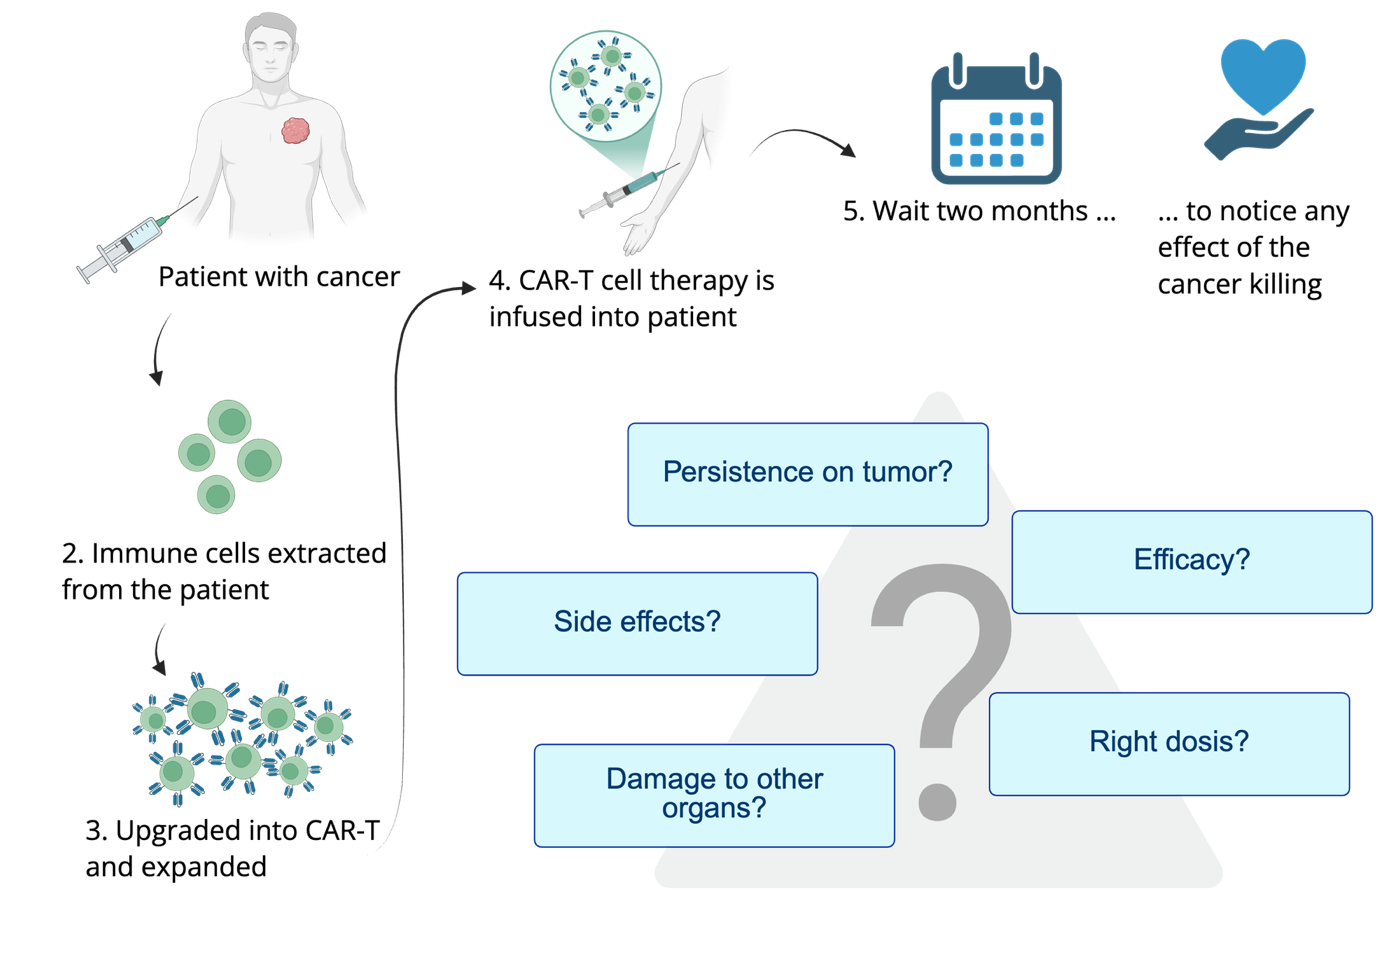
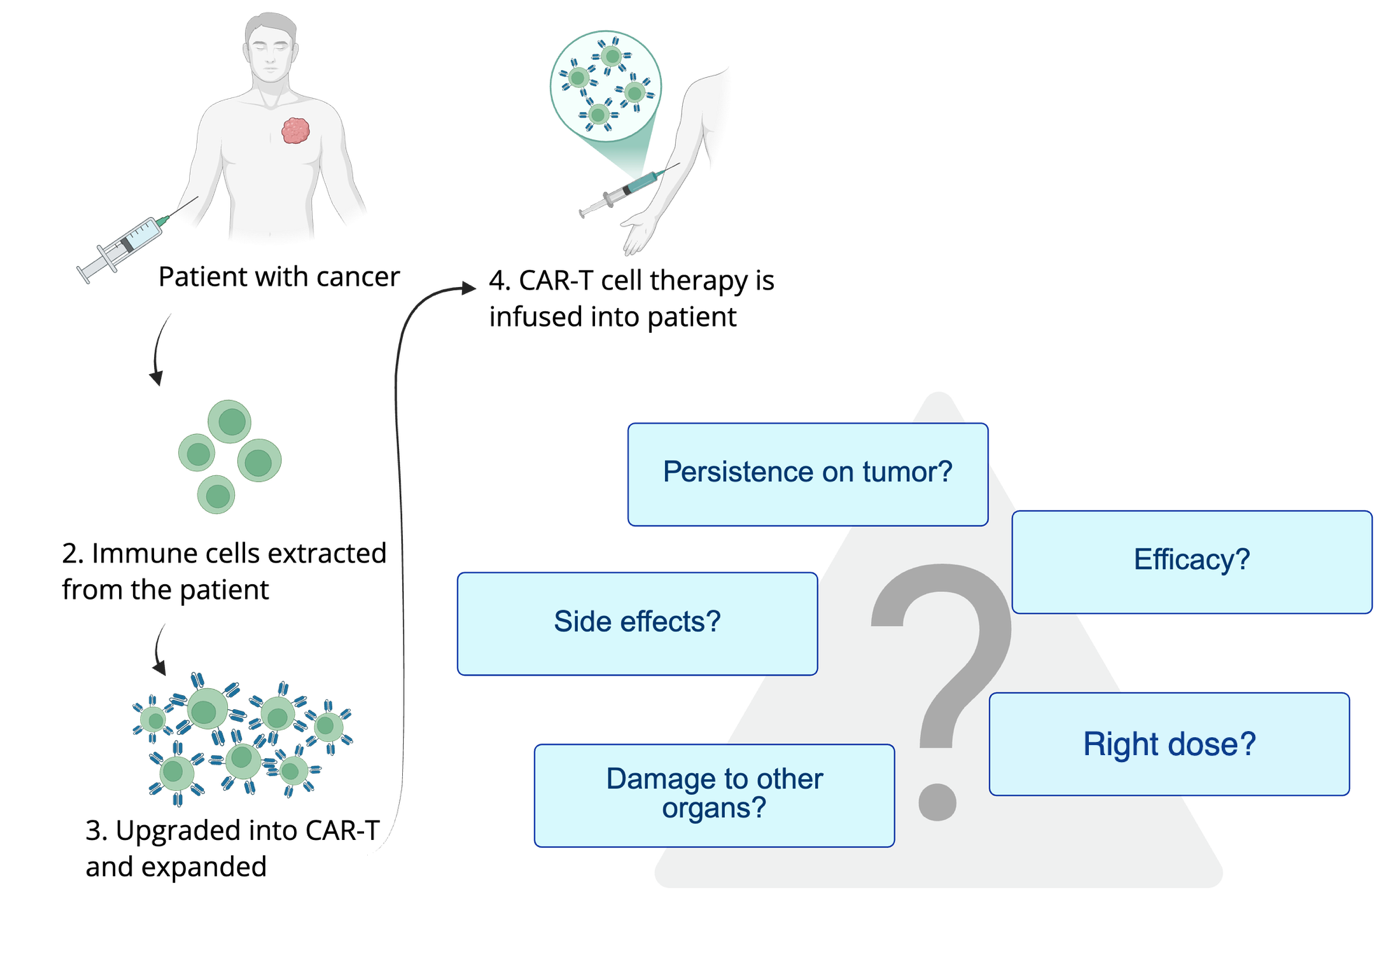
Hero tracer particles fly to reporters, concise tagline, need-section layout, personal contact, Gratama, Leiden area, schematic cleaned

diff --git a/index.html b/index.html
@@ -23,10 +23,10 @@
   <div>
     <p class="eyebrow">The imaging layer for living medicines</p>
     <h1>Making engineered cell therapies <em>visible</em> in the body.</h1>
-    <p class="lede">Radigene B.V. is a Dutch company developing a reporter gene and a radiolabelled tracer to image engineered cells with PET and SPECT.</p>
-    <a class="btn" href="technology.html">See how it works</a><a class="btn alt" href="contact.html">Get in touch</a>
+    <p class="lede">We tag engineered cells, so PET and SPECT scans can see them.</p>
+    <a class="btn" href="technology.html">See how it works</a><a class="btn alt" href="contact.html">Talk to us</a>
   </div>
-  <figure class="vizwrap"><svg class="viz" viewBox="0 0 440 380" role="img" aria-label="Illustration: engineered cells carry two kinds of receptor on their surface, a CAR and a reporter. A radiolabelled tracer binds the reporter and the cell lights up."><g class="cells"><circle cx="70" cy="70" r="26"/><circle cx="170" cy="48" r="20"/><circle cx="300" cy="80" r="28"/><circle cx="388" cy="150" r="22"/><circle cx="60" cy="210" r="22"/><circle cx="150" cy="300" r="28"/><circle cx="330" cy="310" r="24"/><circle cx="240" cy="360" r="14"/><g class="tag t1"><g transform="translate(235 170)"><circle class="body" r="32"/><g transform="rotate(-70) translate(0 -32)"><path class="car" d="M0 0V-13M0 -13L-6 -22M0 -13L6 -22"/></g><g transform="rotate(-20) translate(0 -32)"><path class="car" d="M0 0V-13M0 -13L-6 -22M0 -13L6 -22"/></g><g transform="rotate(40) translate(0 -32)"><path class="car" d="M0 0V-13M0 -13L-6 -22M0 -13L6 -22"/></g><g transform="rotate(140) translate(0 -32)"><path class="car" d="M0 0V-13M0 -13L-6 -22M0 -13L6 -22"/></g><g transform="rotate(205) translate(0 -32)"><path class="car" d="M0 0V-13M0 -13L-6 -22M0 -13L6 -22"/></g><g transform="rotate(265) translate(0 -32)"><path class="car" d="M0 0V-13M0 -13L-6 -22M0 -13L6 -22"/></g><g transform="rotate(10) translate(0 -32)"><path class="stem" d="M0 0V-11"/><circle class="rep" cx="0" cy="-15" r="4.5"/></g><g transform="rotate(95) translate(0 -32)"><path class="stem" d="M0 0V-11"/><circle class="rep" cx="0" cy="-15" r="4.5"/></g><g transform="rotate(160) translate(0 -32)"><path class="stem" d="M0 0V-11"/><circle class="rep" cx="0" cy="-15" r="4.5"/></g><g transform="rotate(-120) translate(0 -32)"><path class="stem" d="M0 0V-11"/><circle class="rep" cx="0" cy="-15" r="4.5"/></g></g></g><g class="tag t2"><g transform="translate(145 150)"><circle class="body" r="24"/><g transform="rotate(-60) translate(0 -24)"><path class="car" d="M0 0V-13M0 -13L-6 -22M0 -13L6 -22"/></g><g transform="rotate(20) translate(0 -24)"><path class="car" d="M0 0V-13M0 -13L-6 -22M0 -13L6 -22"/></g><g transform="rotate(120) translate(0 -24)"><path class="car" d="M0 0V-13M0 -13L-6 -22M0 -13L6 -22"/></g><g transform="rotate(200) translate(0 -24)"><path class="car" d="M0 0V-13M0 -13L-6 -22M0 -13L6 -22"/></g><g transform="rotate(-10) translate(0 -24)"><path class="stem" d="M0 0V-11"/><circle class="rep" cx="0" cy="-15" r="4.5"/></g><g transform="rotate(70) translate(0 -24)"><path class="stem" d="M0 0V-11"/><circle class="rep" cx="0" cy="-15" r="4.5"/></g><g transform="rotate(250) translate(0 -24)"><path class="stem" d="M0 0V-11"/><circle class="rep" cx="0" cy="-15" r="4.5"/></g></g></g><g class="tag t3"><g transform="translate(320 215)"><circle class="body" r="26"/><g transform="rotate(-80) translate(0 -26)"><path class="car" d="M0 0V-13M0 -13L-6 -22M0 -13L6 -22"/></g><g transform="rotate(-10) translate(0 -26)"><path class="car" d="M0 0V-13M0 -13L-6 -22M0 -13L6 -22"/></g><g transform="rotate(100) translate(0 -26)"><path class="car" d="M0 0V-13M0 -13L-6 -22M0 -13L6 -22"/></g><g transform="rotate(190) translate(0 -26)"><path class="car" d="M0 0V-13M0 -13L-6 -22M0 -13L6 -22"/></g><g transform="rotate(40) translate(0 -26)"><path class="stem" d="M0 0V-11"/><circle class="rep" cx="0" cy="-15" r="4.5"/></g><g transform="rotate(150) translate(0 -26)"><path class="stem" d="M0 0V-11"/><circle class="rep" cx="0" cy="-15" r="4.5"/></g><g transform="rotate(-130) translate(0 -26)"><path class="stem" d="M0 0V-11"/><circle class="rep" cx="0" cy="-15" r="4.5"/></g></g></g></g><g class="trc"><circle class="p p1" cx="30" cy="330" r="4"/><circle class="p p2" cx="410" cy="40" r="4"/><circle class="p p3" cx="30" cy="20" r="4"/><circle class="p p4" cx="420" cy="330" r="4"/></g><g class="key" font-size="11"><path class="car" d="M16 366V353M16 353L11 345M16 353L21 345"/><text x="30" y="362">CAR</text><circle class="rep" cx="86" cy="356" r="4.5"/><text x="96" y="362">Reporter</text></g></svg><figcaption>Illustration. Tagged cells light up when the tracer binds.</figcaption></figure>
+  <figure class="vizwrap"><svg class="viz" viewBox="0 0 440 380" role="img" aria-label="Illustration: engineered cells carry two kinds of receptor on their surface, a CAR and a reporter. Radiolabelled tracer particles travel to the reporters and bind them, and the cells light up."><g class="cells"><circle cx="70" cy="70" r="26"/><circle cx="170" cy="48" r="20"/><circle cx="300" cy="80" r="28"/><circle cx="388" cy="150" r="22"/><circle cx="60" cy="210" r="22"/><circle cx="150" cy="300" r="28"/><circle cx="330" cy="310" r="24"/><circle cx="240" cy="360" r="14"/><g class="tag t1"><g transform="translate(235 170)"><circle class="body" r="32"/><g transform="rotate(-70) translate(0 -32)"><path class="car" d="M0 0V-13M0 -13L-6 -22M0 -13L6 -22"/></g><g transform="rotate(-20) translate(0 -32)"><path class="car" d="M0 0V-13M0 -13L-6 -22M0 -13L6 -22"/></g><g transform="rotate(40) translate(0 -32)"><path class="car" d="M0 0V-13M0 -13L-6 -22M0 -13L6 -22"/></g><g transform="rotate(140) translate(0 -32)"><path class="car" d="M0 0V-13M0 -13L-6 -22M0 -13L6 -22"/></g><g transform="rotate(205) translate(0 -32)"><path class="car" d="M0 0V-13M0 -13L-6 -22M0 -13L6 -22"/></g><g transform="rotate(265) translate(0 -32)"><path class="car" d="M0 0V-13M0 -13L-6 -22M0 -13L6 -22"/></g><g transform="rotate(10) translate(0 -32)"><path class="stem" d="M0 0V-11"/><circle class="rep" cx="0" cy="-15" r="4.5"/></g><g transform="rotate(95) translate(0 -32)"><path class="stem" d="M0 0V-11"/><circle class="rep" cx="0" cy="-15" r="4.5"/></g><g transform="rotate(160) translate(0 -32)"><path class="stem" d="M0 0V-11"/><circle class="rep" cx="0" cy="-15" r="4.5"/></g><g transform="rotate(-120) translate(0 -32)"><path class="stem" d="M0 0V-11"/><circle class="rep" cx="0" cy="-15" r="4.5"/></g></g></g><g class="tag t2"><g transform="translate(145 150)"><circle class="body" r="24"/><g transform="rotate(-60) translate(0 -24)"><path class="car" d="M0 0V-13M0 -13L-6 -22M0 -13L6 -22"/></g><g transform="rotate(20) translate(0 -24)"><path class="car" d="M0 0V-13M0 -13L-6 -22M0 -13L6 -22"/></g><g transform="rotate(120) translate(0 -24)"><path class="car" d="M0 0V-13M0 -13L-6 -22M0 -13L6 -22"/></g><g transform="rotate(200) translate(0 -24)"><path class="car" d="M0 0V-13M0 -13L-6 -22M0 -13L6 -22"/></g><g transform="rotate(-10) translate(0 -24)"><path class="stem" d="M0 0V-11"/><circle class="rep" cx="0" cy="-15" r="4.5"/></g><g transform="rotate(70) translate(0 -24)"><path class="stem" d="M0 0V-11"/><circle class="rep" cx="0" cy="-15" r="4.5"/></g><g transform="rotate(250) translate(0 -24)"><path class="stem" d="M0 0V-11"/><circle class="rep" cx="0" cy="-15" r="4.5"/></g></g></g><g class="tag t3"><g transform="translate(320 215)"><circle class="body" r="26"/><g transform="rotate(-80) translate(0 -26)"><path class="car" d="M0 0V-13M0 -13L-6 -22M0 -13L6 -22"/></g><g transform="rotate(-10) translate(0 -26)"><path class="car" d="M0 0V-13M0 -13L-6 -22M0 -13L6 -22"/></g><g transform="rotate(100) translate(0 -26)"><path class="car" d="M0 0V-13M0 -13L-6 -22M0 -13L6 -22"/></g><g transform="rotate(190) translate(0 -26)"><path class="car" d="M0 0V-13M0 -13L-6 -22M0 -13L6 -22"/></g><g transform="rotate(40) translate(0 -26)"><path class="stem" d="M0 0V-11"/><circle class="rep" cx="0" cy="-15" r="4.5"/></g><g transform="rotate(150) translate(0 -26)"><path class="stem" d="M0 0V-11"/><circle class="rep" cx="0" cy="-15" r="4.5"/></g><g transform="rotate(-130) translate(0 -26)"><path class="stem" d="M0 0V-11"/><circle class="rep" cx="0" cy="-15" r="4.5"/></g></g></g></g><g class="trc"><circle class="p" cx="420" cy="20" r="4.5" style="--dx:-176.8px;--dy:103.7px;animation-delay:0.00s"/><circle class="p" cx="430" cy="205" r="4.5" style="--dx:-148.2px;--dy:-30.9px;animation-delay:0.12s"/><circle class="p" cx="225" cy="372" r="4.5" style="--dx:-30.7px;--dy:-178.5px;animation-delay:0.24s"/><circle class="p" cx="18" cy="30" r="4.5" style="--dx:120.2px;--dy:81.6px;animation-delay:0.36s"/><circle class="p" cx="190" cy="6" r="4.5" style="--dx:-8.4px;--dy:130.7px;animation-delay:0.48s"/><circle class="p" cx="415" cy="360" r="4.5" style="--dx:-74.5px;--dy:-109.5px;animation-delay:0.60s"/><circle class="p" cx="436" cy="120" r="4.5" style="--dx:-89.6px;--dy:63.6px;animation-delay:0.72s"/></g><g class="key" font-size="11"><path class="car" d="M16 366V353M16 353L11 345M16 353L21 345"/><text x="30" y="362">CAR</text><circle class="rep" cx="86" cy="356" r="4.5"/><text x="96" y="362">Reporter</text><circle class="p0" cx="160" cy="356" r="4.5"/><text x="170" y="362">Tracer</text></g></svg><figcaption>Illustration. Tagged cells light up when the tracer binds.</figcaption></figure>
 </div></section>
 
 <section class="tint need"><div class="wrap">
@@ -49,7 +49,7 @@
         <li><b>It follows the therapy.</b> The reporter sits on the engineered cells, so the scan shows them, not tissue metabolism.</li>
         <li><b>Whole body, repeatable.</b> No biopsy, and the scan can be repeated.</li>
         <li><b>Designed for hospitals.</b> The tracer is designed around gallium-68, made on site with a generator, without a cyclotron.</li>
-        <li><b>Shown in mice</b> (2024).</li>
+        <li><b>Shown in mice.</b> The approach was published in 2024 (<a href="https://doi.org/10.3390/ijms25158206" rel="noopener" target="_blank">Gaspar et al.</a>).</li>
       </ul></div>
   </div>
 </div></section>
@@ -95,22 +95,27 @@
   <p class="lede" style="margin-top:0">The underlying approach has been shown in mice (<a href="https://doi.org/10.3390/ijms25158206" rel="noopener" target="_blank">Gaspar et al., Int. J. Mol. Sci., 2024</a>). Radigene is taking it towards clinical use. It is not used in patients today.</p>
   <div class="recog">
     <div><span>Winner of</span><img src="assets/logo-gulliver.png" width="180" height="56" alt="Gulliver Challenge, Kickstarting Adventures" loading="lazy"></div>
+    <div><span>Also winner of</span><p class="loc">The Gratama prize</p></div>
     <div><span>Supported by</span><img src="assets/logo-unlock.png" width="225" height="69" alt="unlock_, Life Science Incubator Leiden" loading="lazy"></div>
-    <div><span>Based in</span><p class="loc">Leiden, the Netherlands</p></div>
+    <div><span>Based in</span><p class="loc">The Leiden area, the Netherlands</p></div>
   </div>
 </div></section>
 
 <section class="tint"><div class="wrap">
-  <h2>Let&rsquo;s talk.</h2>
-  <div class="cols" style="margin-top:24px">
-    <div class="panel"><h3>Cell-therapy developers</h3><p style="margin-top:12px">Run a pilot with your construct.</p><a class="btn" href="mailto:hello@radigene.nl?subject=Pilot%20with%20our%20construct">Request a pilot</a></div>
-    <div class="panel"><h3>Investors and partners</h3><p style="margin-top:12px">Ask for the company overview.</p><a class="btn" href="mailto:hello@radigene.nl?subject=Overview%20request">Request the overview</a></div>
+  <div class="personal">
+    <div class="faces"><img src="assets/laura-mezzanotte.jpg" width="88" height="88" alt="Laura Mezzanotte" loading="lazy"><img src="assets/cas-kranenburg.jpg" width="88" height="88" alt="Cas Kranenburg" loading="lazy"></div>
+    <div>
+      <p class="eyebrow">Talk to us</p>
+      <h2>Working on a cell therapy? Laura and Cas would like to hear about it.</h2>
+      <p>Tell us which cells you engineer and what you need to see. We read every message ourselves and reply in person.</p>
+      <a class="btn" href="mailto:hello@radigene.nl?subject=Pilot%20with%20our%20construct">Request a pilot</a><a class="btn alt" href="mailto:hello@radigene.nl?subject=Overview%20request">Investor? Ask for the overview</a>
+    </div>
   </div>
 </div></section>
 </main>
 <footer class="site">
   <div class="wrap">
-    <span><b>Radigene B.V.</b> &middot; Leiden, the Netherlands &middot; KvK 42179941 &middot; <a href="mailto:hello@radigene.nl">hello@radigene.nl</a></span>
+    <span><b>Radigene B.V.</b> &middot; Leiden area, the Netherlands &middot; KvK 42179941 &middot; <a href="mailto:hello@radigene.nl">hello@radigene.nl</a></span>
     <span>Investigational. Not used in patients. Not a medical device.</span>
   </div>
 </footer>

diff --git a/assets/site.css b/assets/site.css
@@ -84,11 +84,6 @@ footer.site b{color:var(--on-dark);font-weight:600}
 .viz .cells circle{fill:var(--bg-2);stroke:var(--line-2);stroke-width:1.5}
 .viz .cells .tag{stroke:var(--accent);stroke-width:2.5;animation:glow 8s ease-in-out infinite}
 .viz .cells .t2{animation-delay:.8s}.viz .cells .t3{animation-delay:1.6s}
-.viz .p{fill:var(--accent);opacity:0;animation:dock 8s ease-in-out infinite}
-.viz .p1{--dx:205px;--dy:-160px}.viz .p2{--dx:-175px;--dy:115px;animation-delay:.8s}
-.viz .p3{--dx:115px;--dy:130px;animation-delay:1.6s}.viz .p4{--dx:-100px;--dy:-115px;animation-delay:2.2s}
-@keyframes dock{0%,12%{opacity:0;transform:translate(0,0)}30%{opacity:1}55%,100%{opacity:0;transform:translate(var(--dx),var(--dy))}}
-@keyframes glow{0%,45%{fill:var(--bg-2);filter:none}65%,90%{fill:var(--accent-soft);filter:drop-shadow(0 0 14px var(--accent))}100%{fill:var(--bg-2);filter:none}}
 @media (prefers-reduced-motion:reduce){.viz .cells .tag{animation:none;fill:var(--accent-soft)}.viz .p{animation:none;opacity:0}}
 @media (max-width:760px){.herogrid{grid-template-columns:1fr}.vizwrap{max-width:360px}}
 .strip{padding-block:0;border-block:1px solid var(--line);background:var(--surface)}
@@ -110,7 +105,6 @@ footer.site b{color:var(--on-dark);font-weight:600}
 .viz .cells .t2 .body{animation-delay:.8s}.viz .cells .t3 .body{animation-delay:1.6s}
 .viz .cells .tag .rep{animation:repglow 8s ease-in-out infinite}
 .viz .cells .t2 .rep{animation-delay:.8s}.viz .cells .t3 .rep{animation-delay:1.6s}
-@keyframes repglow{0%,45%{filter:none}65%,90%{filter:drop-shadow(0 0 6px #F2994A) brightness(1.15)}100%{filter:none}}
 .viz .key text{fill:var(--subtle);font-family:var(--sans)}
 @media (prefers-color-scheme:dark){.viz .car{stroke:#6FA8E0}}
 @media (prefers-reduced-motion:reduce){.viz .cells .tag .body,.viz .cells .tag .rep{animation:none}.viz .cells .tag .body{fill:var(--accent-soft)}}
@@ -126,3 +120,20 @@ ul.tick b{color:var(--ink)}
 .recog .loc{font:700 22px var(--display);color:var(--ink);letter-spacing:-.02em;margin:0;padding:12px 0}
 .viz .cells circle.rep{fill:#F2994A;stroke:none}
 .viz .car{stroke-width:3}
+.viz .p{fill:#1479C9;opacity:0;animation:dock 8s ease-in-out infinite}
+.viz .p0{fill:#1479C9}
+@keyframes dock{0%,8%{opacity:0;transform:translate(0,0)}14%{opacity:1}52%{opacity:1;transform:translate(var(--dx),var(--dy))}86%{opacity:1;transform:translate(var(--dx),var(--dy))}95%,100%{opacity:0;transform:translate(var(--dx),var(--dy))}}
+@keyframes glow{0%,50%{fill:var(--bg-2);filter:none}62%,88%{fill:var(--accent-soft);filter:drop-shadow(0 0 14px var(--accent))}100%{fill:var(--bg-2);filter:none}}
+@keyframes repglow{0%,50%{filter:none}62%,88%{filter:drop-shadow(0 0 7px #F2994A) brightness(1.2)}100%{filter:none}}
+.viz .cells .tag .body{animation-delay:0s!important}
+.viz .cells .tag .rep{animation-delay:0s!important}
+@media (prefers-reduced-motion:reduce){.viz .p{animation:none;opacity:0}}
+ul.tick b{display:block;margin-bottom:2px}
+.personal{display:grid;grid-template-columns:auto 1fr;gap:clamp(20px,4vw,48px);align-items:center}
+.faces{display:flex}
+.faces img{width:88px;height:88px;border-radius:50%;object-fit:cover;border:3px solid var(--bg-2)}
+.faces img+img{margin-left:-18px}
+.personal h2{margin-bottom:12px;max-width:22ch}
+.personal .btn{margin-top:24px}
+@media (max-width:640px){.personal{grid-template-columns:1fr}}
+.lede{text-wrap:balance}

diff --git a/contact.html b/contact.html
@@ -22,17 +22,18 @@
 <section class="hero" style="padding-bottom:clamp(32px,5vw,64px)"><div class="wrap">
   <p class="eyebrow">Contact</p>
   <h1>Get in <em>touch</em>.</h1>
-  <p class="lede">For partnerships, pilots, press and other questions, write to us.</p>
+  <div class="faces" style="margin:28px 0 24px"><img src="assets/laura-mezzanotte.jpg" width="88" height="88" alt="Laura Mezzanotte"><img src="assets/cas-kranenburg.jpg" width="88" height="88" alt="Cas Kranenburg"></div>
+  <p class="lede">Laura and Cas read every message and reply in person. Write to us about pilots, partnerships, investment or press.</p>
   <p style="margin-top:28px"><a class="mail" href="mailto:hello@radigene.nl">hello@radigene.nl</a></p>
 </div></section>
 <section class="tint"><div class="wrap">
   <h2>Company</h2>
-  <div class="panel"><dl class="kv"><dt>Name</dt><dd>Radigene B.V.</dd><dt>KvK number</dt><dd>42179941</dd><dt>Location</dt><dd>Leiden, the Netherlands</dd></dl></div>
+  <div class="panel"><dl class="kv"><dt>Name</dt><dd>Radigene B.V.</dd><dt>KvK number</dt><dd>42179941</dd><dt>Location</dt><dd>The Leiden area, the Netherlands</dd></dl></div>
 </div></section>
 </main>
 <footer class="site">
   <div class="wrap">
-    <span><b>Radigene B.V.</b> &middot; Leiden, the Netherlands &middot; KvK 42179941 &middot; <a href="mailto:hello@radigene.nl">hello@radigene.nl</a></span>
+    <span><b>Radigene B.V.</b> &middot; Leiden area, the Netherlands &middot; KvK 42179941 &middot; <a href="mailto:hello@radigene.nl">hello@radigene.nl</a></span>
     <span>Investigational. Not used in patients. Not a medical device.</span>
   </div>
 </footer>

diff --git a/about.html b/about.html
@@ -22,7 +22,7 @@
 <section class="hero" style="padding-bottom:clamp(32px,5vw,64px)"><div class="wrap">
   <p class="eyebrow">About</p>
   <h1>Imaging for <em>living medicines</em>.</h1>
-  <p class="lede">Radigene B.V. is a Dutch company, based in Leiden, founded to make engineered cell therapies visible in the body.</p>
+  <p class="lede">Radigene B.V. is a Dutch company, based in the Leiden area, founded to make engineered cell therapies visible in the body.</p>
 </div></section>
 <section style="padding-top:0"><div class="wrap">
   <h2>What we do</h2>
@@ -50,7 +50,7 @@
 </main>
 <footer class="site">
   <div class="wrap">
-    <span><b>Radigene B.V.</b> &middot; Leiden, the Netherlands &middot; KvK 42179941 &middot; <a href="mailto:hello@radigene.nl">hello@radigene.nl</a></span>
+    <span><b>Radigene B.V.</b> &middot; Leiden area, the Netherlands &middot; KvK 42179941 &middot; <a href="mailto:hello@radigene.nl">hello@radigene.nl</a></span>
     <span>Investigational. Not used in patients. Not a medical device.</span>
   </div>
 </footer>

diff --git a/technology.html b/technology.html
@@ -51,7 +51,7 @@
 </main>
 <footer class="site">
   <div class="wrap">
-    <span><b>Radigene B.V.</b> &middot; Leiden, the Netherlands &middot; KvK 42179941 &middot; <a href="mailto:hello@radigene.nl">hello@radigene.nl</a></span>
+    <span><b>Radigene B.V.</b> &middot; Leiden area, the Netherlands &middot; KvK 42179941 &middot; <a href="mailto:hello@radigene.nl">hello@radigene.nl</a></span>
     <span>Investigational. Not used in patients. Not a medical device.</span>
   </div>
 </footer>
